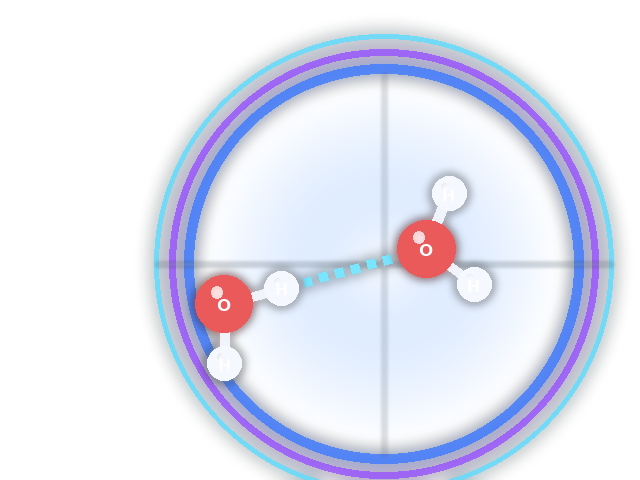
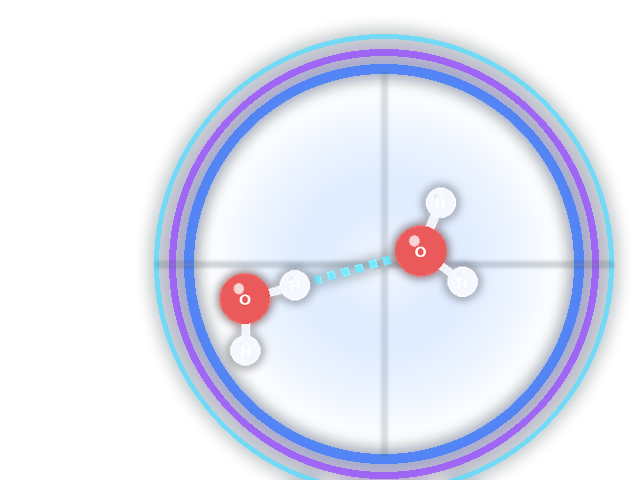
Level-tegels: moleculen en atomen blijven binnen de binnenste ring
Het script meet na het tekenen of alles binnen straal 178 (ring op ~200) valt en schaalt
anders de tekening rond het midden kleiner tot het past (tegel 2, 4 en 6).

Changed region(s): [[0.2812, 0.5312, 0.625, 0.8125], [0.625, 0.3438, 0.7812, 0.6562]]

diff --git a/Tools/Tegels/maak_tegels.py b/Tools/Tegels/maak_tegels.py
@@ -132,6 +132,35 @@ def ijsring(d, db, cx, cy, R, schaal, hoeken):
             h_brug(db, h1, nxt, 13 * schaal, 22 * schaal, max(4, int(7 * schaal)), 3)
 
 
+BINNEN_R = 178   # alles (moleculen, atomen, bruggen) blijft binnen deze straal; de binnenste ring ligt op ~200
+
+
+def binnen_cirkel(lagen, cx, cy, straal):
+    """Schaalt de tekening rond het midden kleiner tot alles binnen de cirkel valt (zoekt de grootste passende schaal)."""
+    from PIL import ImageChops
+    buiten = Image.new("L", (W, H), 255)
+    ImageDraw.Draw(buiten).ellipse([cx - straal, cy - straal, cx + straal, cy + straal], fill=0)
+
+    def geschaald(img, s):
+        return img.transform((W, H), Image.AFFINE, (1 / s, 0, cx - cx / s, 0, 1 / s, cy - cy / s), resample=Image.BICUBIC)
+
+    def past(s):
+        for l in lagen:
+            a = geschaald(l, s).getchannel("A").point(lambda v: 255 if v > 24 else 0)
+            if ImageChops.multiply(a, buiten).getbbox():
+                return False
+        return True
+
+    if past(1.0):
+        return lagen
+    laag_s, hoog_s = 0.4, 1.0
+    for _ in range(12):
+        mid = (laag_s + hoog_s) / 2
+        if past(mid): laag_s = mid
+        else: hoog_s = mid
+    return [geschaald(l, laag_s) for l in lagen]
+
+
 def tegel(n):
     f_groot = ImageFont.truetype(FONT, 26)
     f_klein = ImageFont.truetype(FONT, 18)
@@ -193,6 +222,7 @@ def tegel(n):
                 rr = 5 - k
                 d.ellipse([x - rr, y + 26 + k * 16 - rr, x + rr, y + 26 + k * 16 + rr], fill=CYAAN + (220 - 55 * k,))
 
+    tek, bruggen = binnen_cirkel([tek, bruggen], cx, cy, BINNEN_R)
     bruggen = gloed(bruggen, 6)
     tek = gloed(tek, 5)
     beeld = Image.alpha_composite(Image.alpha_composite(basis, bruggen), tek)
